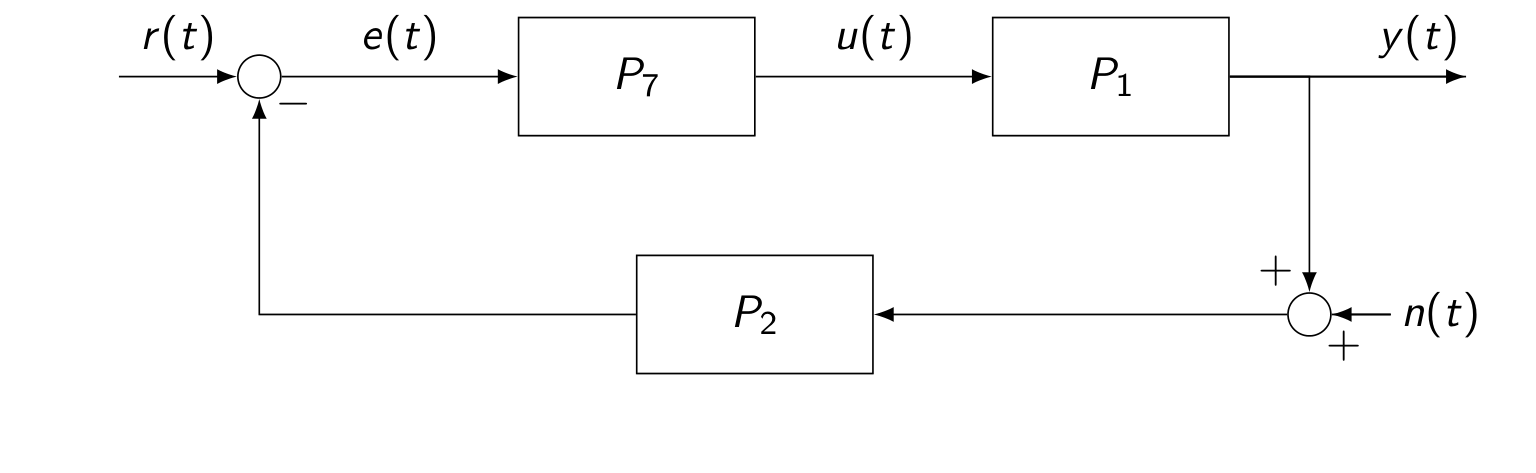
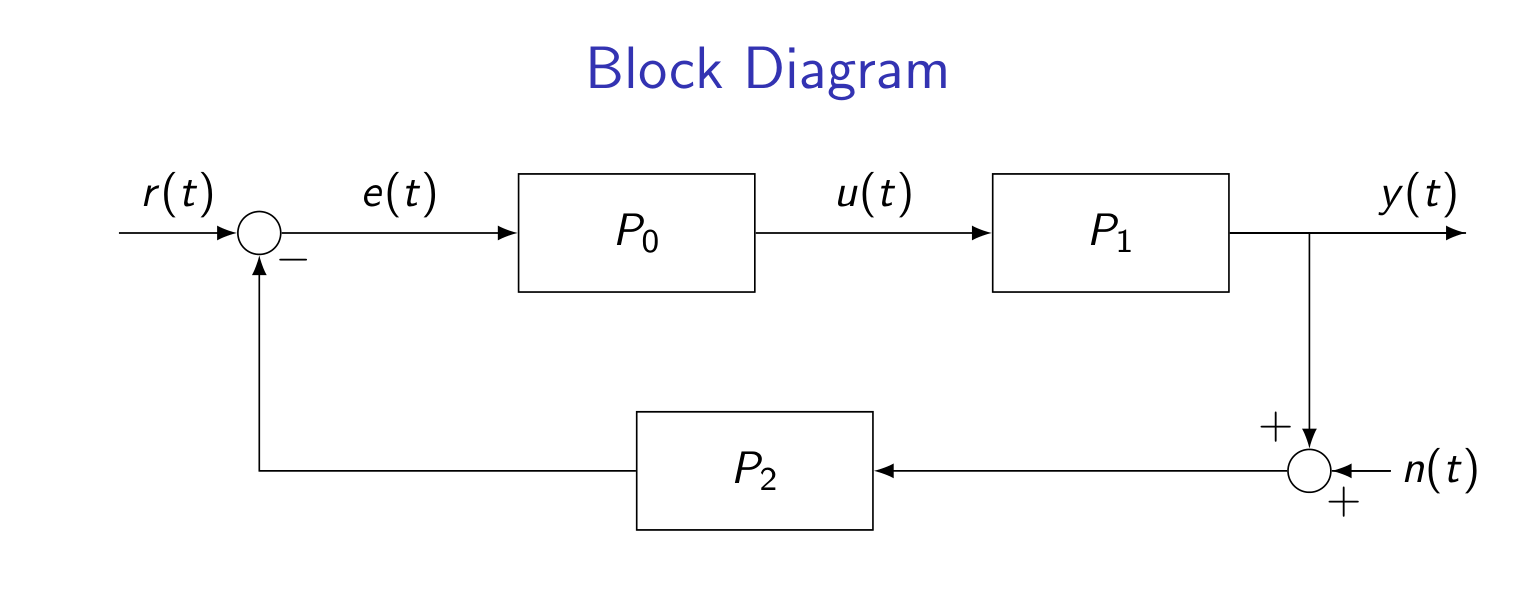
blub

diff --git a/ps09/images/block_diagram.tex b/ps09/images/block_diagram.tex
@@ -1,37 +1,41 @@
 \documentclass[]{beamer}
 \usepackage{tikz}
-\geometry{papersize={13cm, 4cm}}
+\geometry{papersize={13cm, 5cm}}
 \usetikzlibrary{positioning, arrows.meta}
 \beamertemplatenavigationsymbolsempty
+\setbeamertemplate{frametitle}[default][center]
 
 \begin{document}
-\centering
-\begin{tikzpicture}[auto, node distance=2cm,>=Latex,
-    input/.style = {coordinate},
-    output/.style = {coordinate},
-    block/.style = {draw, rectangle, minimum height=1cm, minimum width=2cm},
-    sum/.style = {draw, circle, node distance=1cm},
-]
-\node [input](input){};
-\node [sum, right=of input] (sum) {};
-\node [block, right=of sum] (controller) {$P_7$};
-\node [block, right=of controller] (system) {$P_1$};
-\node [output, right= 2cm of system] (output) {};
-\node [block, below left= 1cm and 1cm of system] (feedback) {$P_2$};
-\node [sum, right= 3.5 cm of feedback] (sum2) {};
-\node [input, right= 0.5cm of sum2](input2){};
-
-\draw [->] (input) -- node {$r(t)$} (sum);
-\draw [->] (sum) -- node {$e(t)$} (controller);
-\draw [->] (controller) -- node {$u(t)$} (system);
-\draw [->] (system) -- node [name=y, pos=0.5] {} (output);
-\draw (system) -- node [pos=0.8] {$y(t)$} (output);
-\draw [->] (system) -| (sum2) node[pos=0.95, left] {$+$};
-\draw [->] (feedback) -| node[pos=0.99, right] {$-$} (sum);
-\draw [->] (input2) -- node[right= 0.2cm of input]{$n(t)$} (sum2);
-\draw (input2) -- node[below,pos=0.8]{$+$} (sum2);
-\draw [->] (sum2) -- (feedback);
-
-\end{tikzpicture}
-
+\begin{frame}
+    \frametitle{Block Diagram}
+    \vspace{0.25cm}
+    \begin{tikzpicture}[auto, node distance=2cm,>=Latex,
+        input/.style = {coordinate},
+        output/.style = {coordinate},
+        block/.style = {draw, rectangle, minimum height=1cm, minimum width=2cm},
+        sum/.style = {draw, circle, node distance=1cm},
+        ]
+        \node [input](input){};
+        \node [sum, right=of input] (sum) {};
+        \node [block, right=of sum] (controller) {$P_0$};
+        \node [block, right=of controller] (system) {$P_1$};
+        \node [output, right= 2cm of system] (output) {};
+        \node [block, below left= 1cm and 1cm of system] (feedback) {$P_2$};
+        \node [sum, right= 3.5 cm of feedback] (sum2) {};
+        \node [input, right= 0.5cm of sum2](input2){};
+        
+        \draw [->] (input) -- node {$r(t)$} (sum);
+        \draw [->] (sum) -- node {$e(t)$} (controller);
+        \draw [->] (controller) -- node {$u(t)$} (system);
+        \draw [->] (system) -- node [name=y, pos=0.5] {} (output);
+        \draw (system) -- node [pos=0.8] {$y(t)$} (output);
+        \draw [->] (system) -| (sum2) node[pos=0.95, left] {$+$};
+        \draw [->] (feedback) -| node[pos=0.99, right] {$-$} (sum);
+        \draw [->] (input2) -- node[right= 0.2cm of input]{$n(t)$} (sum2);
+        \draw (input2) -- node[below,pos=0.8]{$+$} (sum2);
+        \draw [->] (sum2) -- (feedback);
+        
+    \end{tikzpicture}
+\end{frame}
+    
 \end{document}
